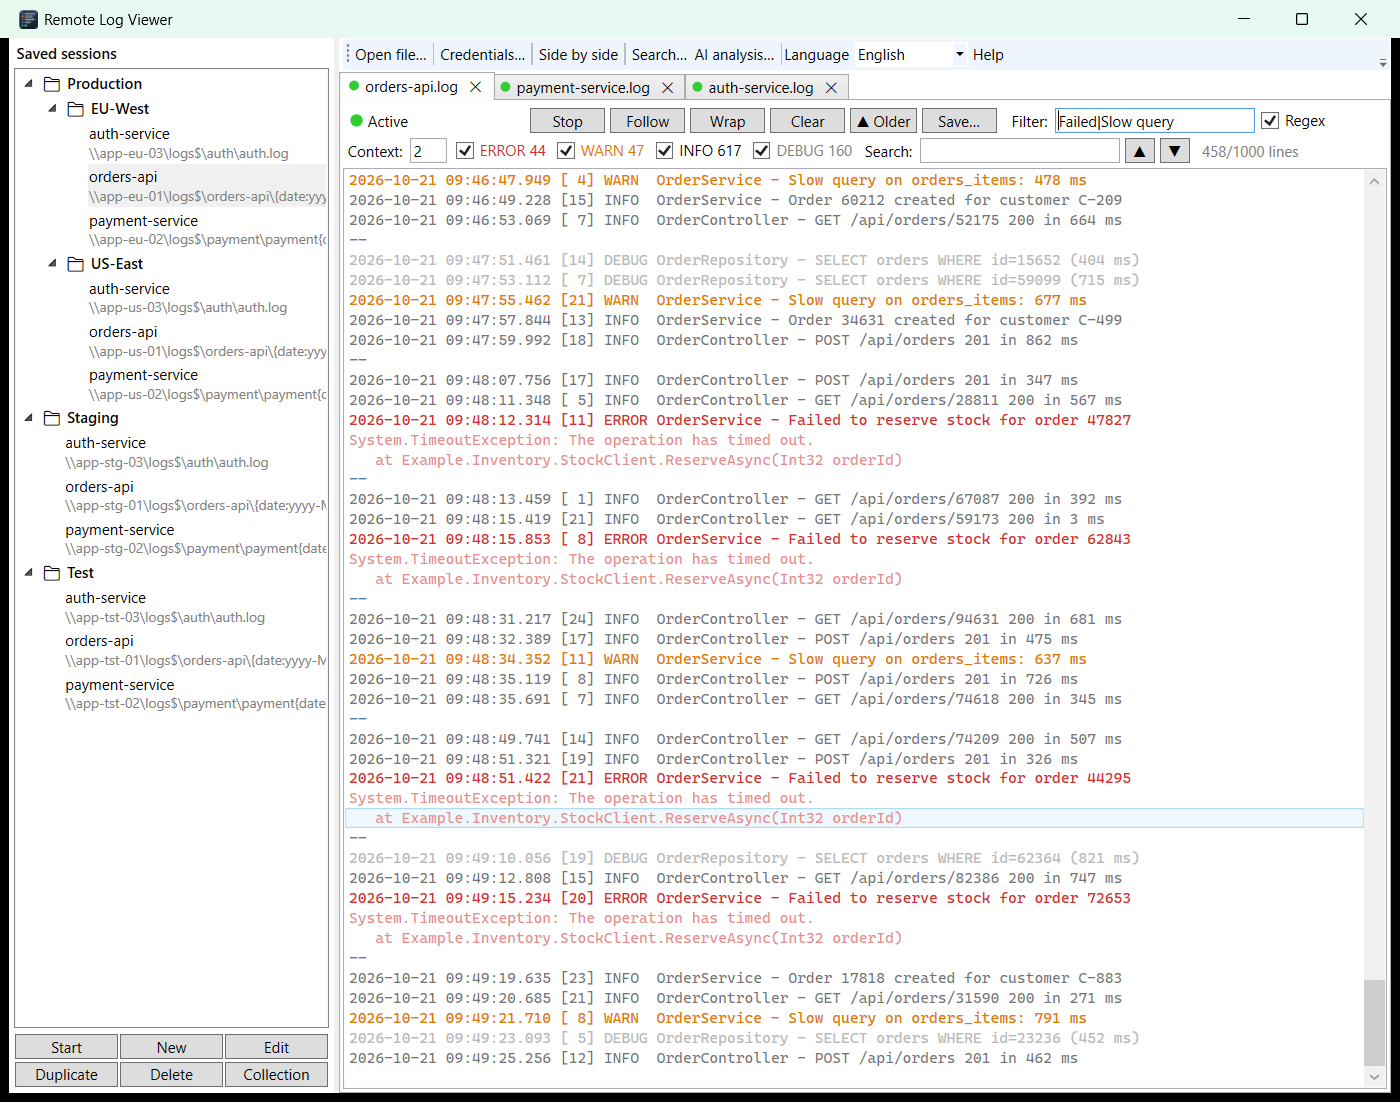
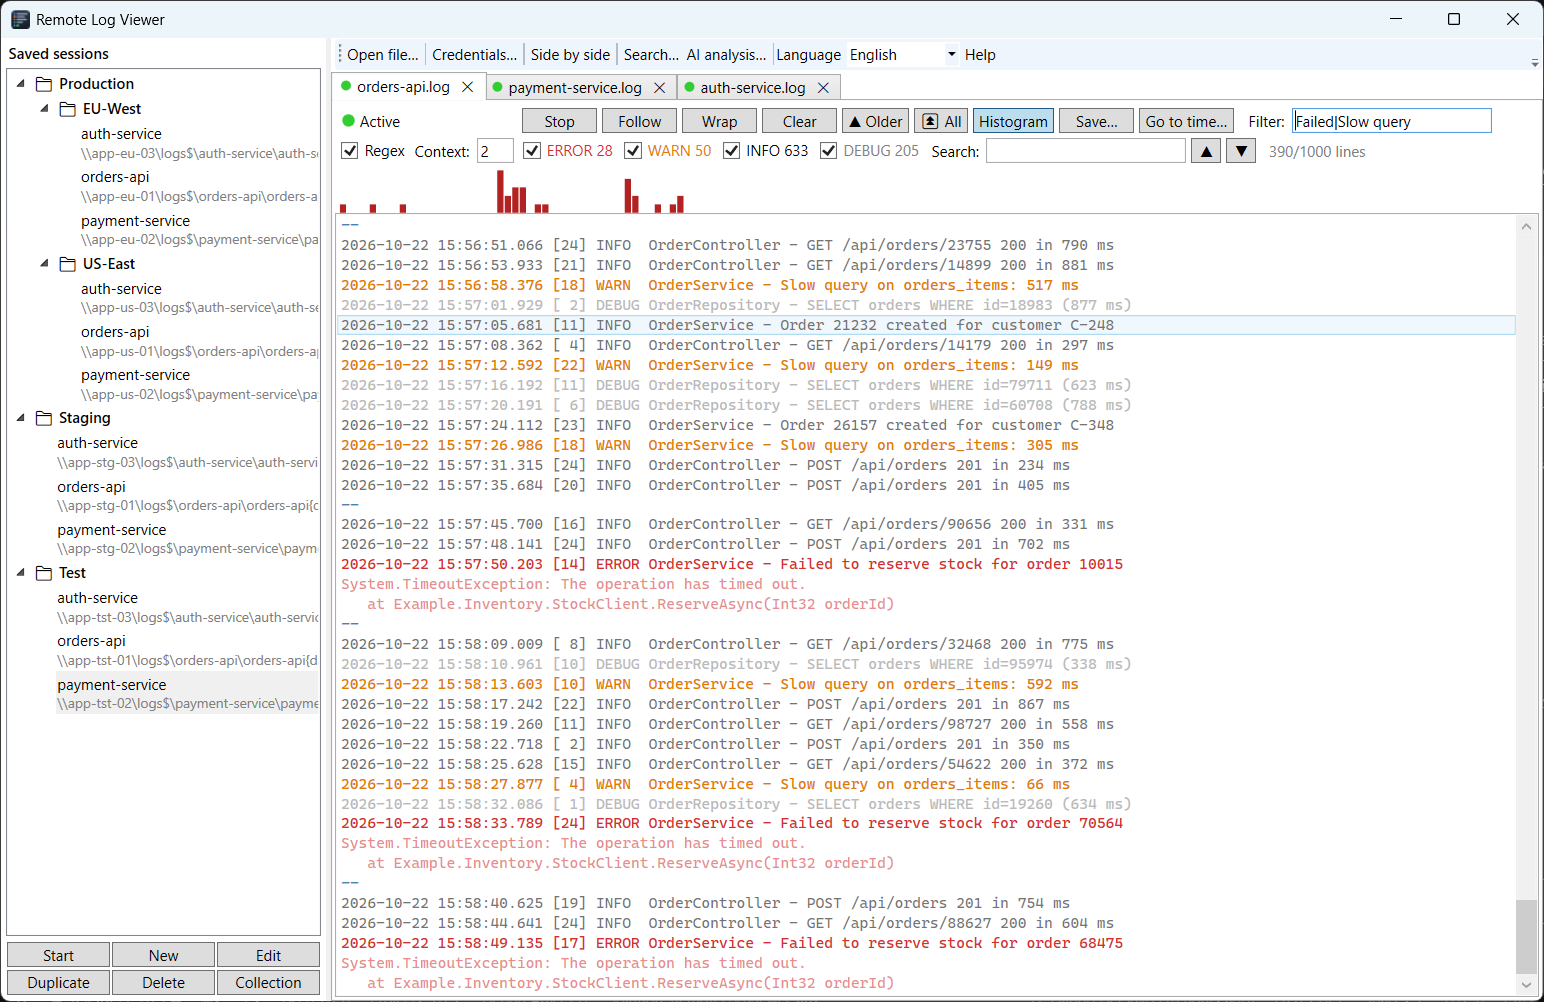
documentation update

Changed region(s): [[0.0, 0.0, 1.0, 1.0]]

diff --git a/CHANGELOG.md b/CHANGELOG.md
@@ -14,6 +14,10 @@ All notable changes to Remote Log Viewer. Format based on [Keep a Changelog](htt
 - **Go to time** (`Ctrl+G`): selects the first visible line at or after a given time.
 - **.gz archives**: rotated logs compressed by the server (`*.gz`, local or remote) open read-only, decompressed once with no tail (last 100,000 lines, no alerts). With *Today's file has no date*, a `….log.gz` path opens the uncompressed `….log` for today. `{n}` in a `.gz` file name matches numbered parts of the same day (`hr-portal.log.2026-10-03.0.gz`, `.1.gz`, …), read in number order.
 
+### Changed
+
+- Documentation screenshots and live-tail GIF retaken to show the new toolbar buttons and the error histogram strip.
+
 ## [1.2.0] - 2026-10-21
 
 ### Added
